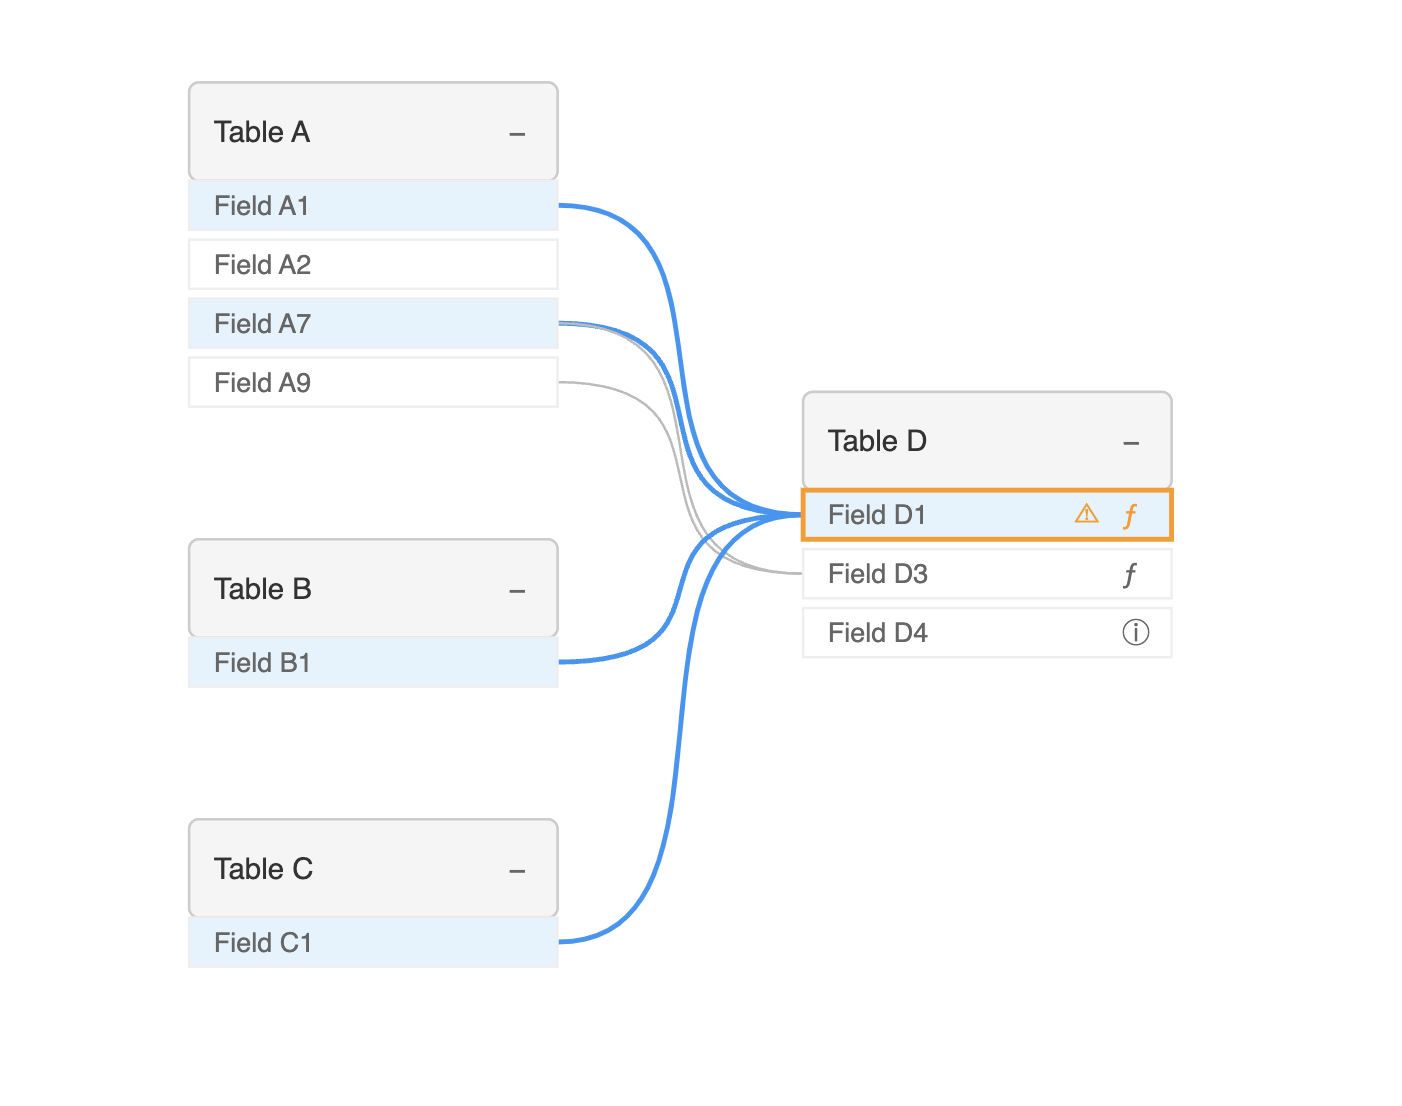
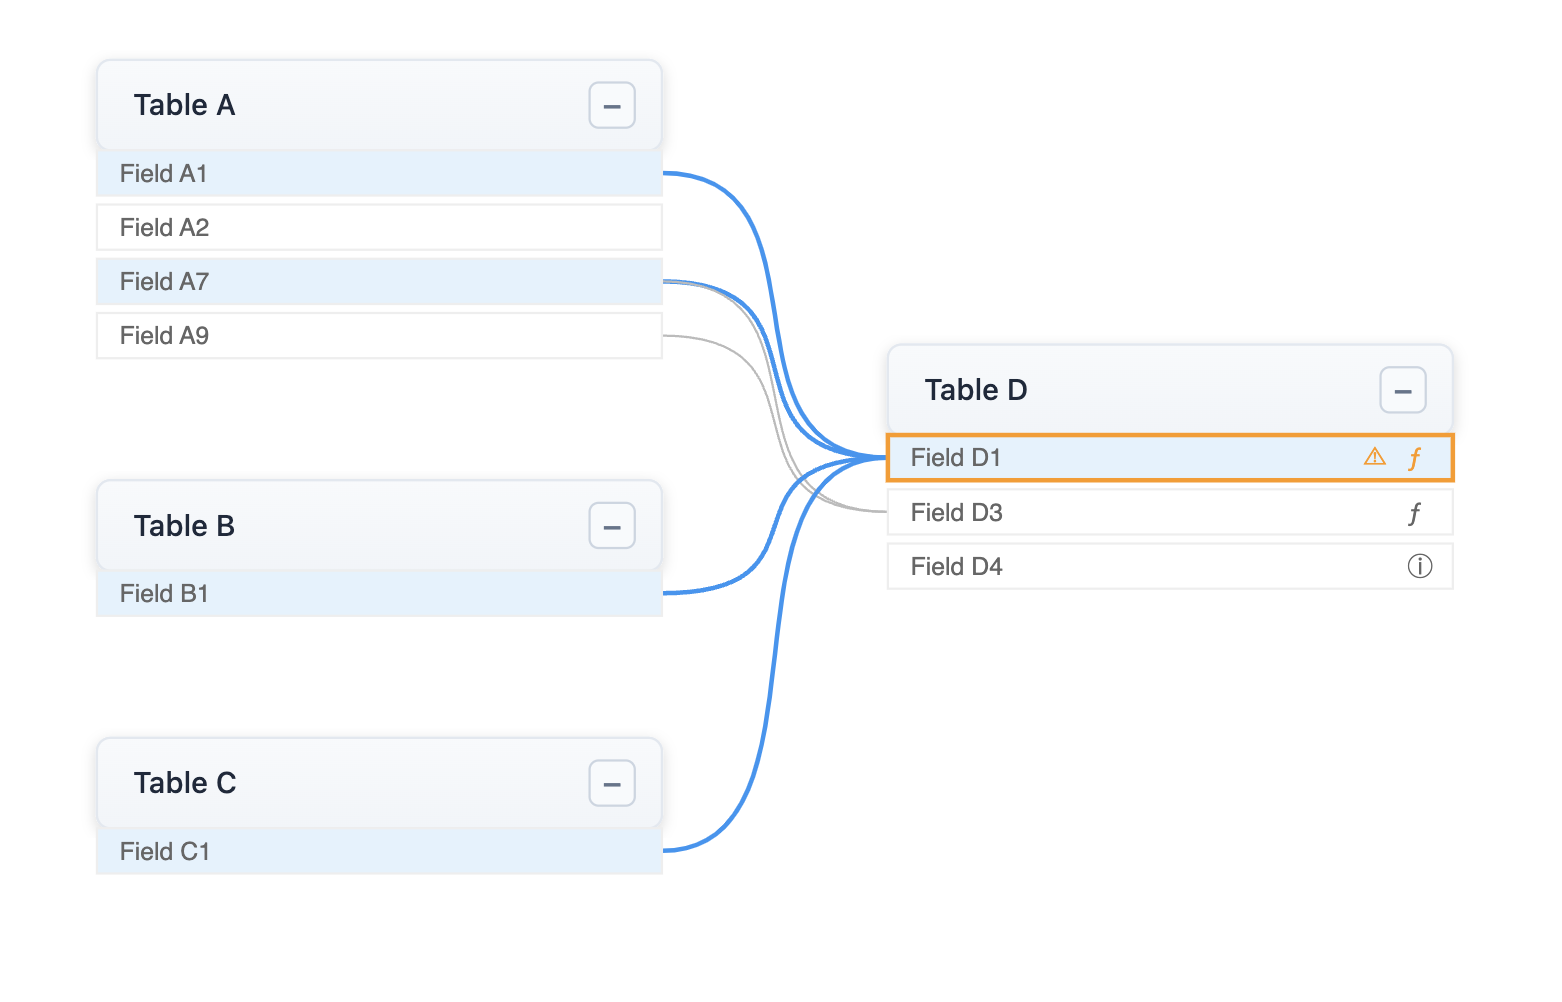
adding ability to control max curve off rendered edges and making some small styling tweaks to the table nodes

diff --git a/src/LineageMap.ts b/src/LineageMap.ts
@@ -26,7 +26,8 @@ export class LineageMap {
             fieldSpacing: options.fieldSpacing || 4,
             levelPadding: options.levelPadding || 100,
             verticalPadding: options.verticalPadding || 50,
-            popUpWidth: options.popUpWidth || 300
+            popUpWidth: options.popUpWidth || 300,
+            maxCurveOffset: options.maxCurveOffset || 100
         };
 
         this.init();
@@ -104,50 +105,96 @@ export class LineageMap {
 
     private renderTable(node: d3.Selection<SVGGElement, Node, null, undefined>, data: Node): void {
         const { tableWidth, tableHeight } = this.options;
-
-        // Add table background
+        
+        // Add drop shadow filter
+        const defs = node.append('defs');
+        defs.append('filter')
+            .attr('id', 'dropShadow')
+            .append('feDropShadow')
+            .attr('dx', '0')
+            .attr('dy', '2')
+            .attr('stdDeviation', '3')
+            .attr('flood-opacity', '0.15');
+    
+        // Add table background with shadow
         node.append('rect')
             .attr('width', tableWidth)
             .attr('height', tableHeight)
             .attr('fill', '#ffffff')
-            .attr('stroke', '#cccccc')
-            .attr('rx', 4);
-
-        // Add table header
+            .attr('stroke', '#E2E8F0')
+            .attr('stroke-width', '1')
+            .attr('rx', 6)
+            .style('filter', 'url(#dropShadow)');
+    
+        // Add table header with gradient
+        const headerGradient = defs.append('linearGradient')
+            .attr('id', 'headerGradient')
+            .attr('x1', '0%')
+            .attr('y1', '0%')
+            .attr('x2', '0%')
+            .attr('y2', '100%');
+        
+        headerGradient.append('stop')
+            .attr('offset', '0%')
+            .attr('stop-color', '#F8FAFC');
+        
+        headerGradient.append('stop')
+            .attr('offset', '100%')
+            .attr('stop-color', '#F1F5F9');
+    
         node.append('rect')
             .attr('class', 'table-header clickable-area')
             .attr('width', tableWidth)
             .attr('height', tableHeight)
-            .attr('fill', '#f5f5f5')
-            .attr('stroke', '#cccccc')
-            .attr('rx', 4);
-
+            .attr('fill', 'url(#headerGradient)')
+            .attr('stroke', '#E2E8F0')
+            .attr('rx', 6);
+    
         // Add table name
         node.append('text')
             .attr('class', 'clickable-area')
-            .attr('x', 10)
+            .attr('x', 16)
             .attr('y', tableHeight / 2)
             .attr('dy', '0.35em')
-            .attr('fill', '#333333')
-            .style('font-family', 'sans-serif')
-            .style('font-size', '12px')
+            .attr('fill', '#1E293B')
+            .style('font-family', '-apple-system, BlinkMacSystemFont, "Segoe UI", Roboto, sans-serif')
+            .style('font-size', '13px')
+            .style('font-weight', '500')
             .text(data.name)
             .style('pointer-events', 'none');
-
+    
         // Add expansion indicator
         const isExpanded = this.expandedTables.has(data.id);
+        const buttonSize = 20;
+        const buttonX = tableWidth - buttonSize - 12; // 12px from right edge
+        const buttonY = (tableHeight - buttonSize) / 2;
+    
+        node.append('rect')
+            .attr('class', 'expansion-button')
+            .attr('x', buttonX)
+            .attr('y', buttonY)
+            .attr('width', buttonSize)
+            .attr('height', buttonSize)
+            .attr('rx', 4)
+            .attr('fill', '#F8FAFC')
+            .attr('stroke', '#CBD5E1')
+            .attr('stroke-width', '1')
+            .style('cursor', 'pointer');
+    
         node.append('text')
             .attr('class', 'clickable-area')
-            .attr('x', tableWidth - 20)
+            .attr('x', buttonX + buttonSize / 2)
             .attr('y', tableHeight / 2)
+            .attr('text-anchor', 'middle')
             .attr('dy', '0.35em')
-            .attr('fill', '#666666')
-            .style('font-family', 'sans-serif')
-            .style('font-size', '12px')
+            .attr('fill', '#64748B')
+            .style('font-family', '-apple-system, BlinkMacSystemFont, "Segoe UI", Roboto, sans-serif')
+            .style('font-size', '14px')
+            .style('font-weight', '500')
             .text(isExpanded ? '−' : '+')
             .style('pointer-events', 'none');
     }
-
+    
     private renderField(node: d3.Selection<SVGGElement, Node, null, undefined>, data: Node): void {
         const { tableWidth, fieldHeight } = this.options;
 
@@ -783,8 +830,7 @@ export class LineageMap {
                         const end = [targetPos.x, targetPos.y + this.options.fieldHeight / 2];
 
                         // Use fixed control point distances based on horizontal distance
-                        const maxCurveOffset = 100; // Define a sensible max curve offset
-                        const curveOffset = Math.min(horizontalDistance / 3, maxCurveOffset);
+                        const curveOffset = Math.min(horizontalDistance / 3, this.options.maxCurveOffset);
                         const ctrl1 = [start[0] + curveOffset, start[1]];
                         const ctrl2 = [end[0] - curveOffset, end[1]];
 

diff --git a/example/src/App.tsx b/example/src/App.tsx
@@ -11,13 +11,14 @@ export default function App() {
           data={graph}
           height="100%"
           options={{
-            tableWidth: 150,
+            tableWidth: 250,
             tableHeight: 40,
             fieldHeight: 20,
             fieldSpacing: 4,
             levelPadding: 100,
             verticalPadding: 50,
             popUpWidth: 300,
+            maxCurveOffset: 80,
           }}
         />
       </div>

diff --git a/src/types/index.ts b/src/types/index.ts
@@ -61,6 +61,7 @@ export interface LineageMapOptions {
   levelPadding?: number;
   verticalPadding?: number;
   popUpWidth?: number;
+  maxCurveOffset?: number;
 }
 
 export interface LineageMapProps {

diff --git a/README.md b/README.md
@@ -4,12 +4,14 @@ Build out field level lineage mappings, visualizations, and transformations usin
 
 ## Getting Started
 installation
-```
+```sh
 npm install react-lineage-map
 ```
 
 adding a lineage component
-```
+```typescript
+import { GraphProp, LineageMapComponent } from "react-lineage-map";
+
 const graph: GraphProp = {
     // table id's can take on whatever format desired, an easy standard is taking 
     // the table name and replacing spaces with _'s.
@@ -48,7 +50,7 @@ const graph: GraphProp = {
   ]
 };
 
-const App = () => {
+export default function App() {
   return (
     <div style={{ padding: '20px' }}>
       <h1>Lineage Map Example</h1>
@@ -57,13 +59,14 @@ const App = () => {
           data={graph}
           height="100%"
           options={{
-            tableWidth: 150,
+            tableWidth: 250,
             tableHeight: 40,
             fieldHeight: 20,
             fieldSpacing: 4,
             levelPadding: 100,
             verticalPadding: 50,
             popUpWidth: 300,
+            maxCurveOffset: 80,
           }}
         />
       </div>
